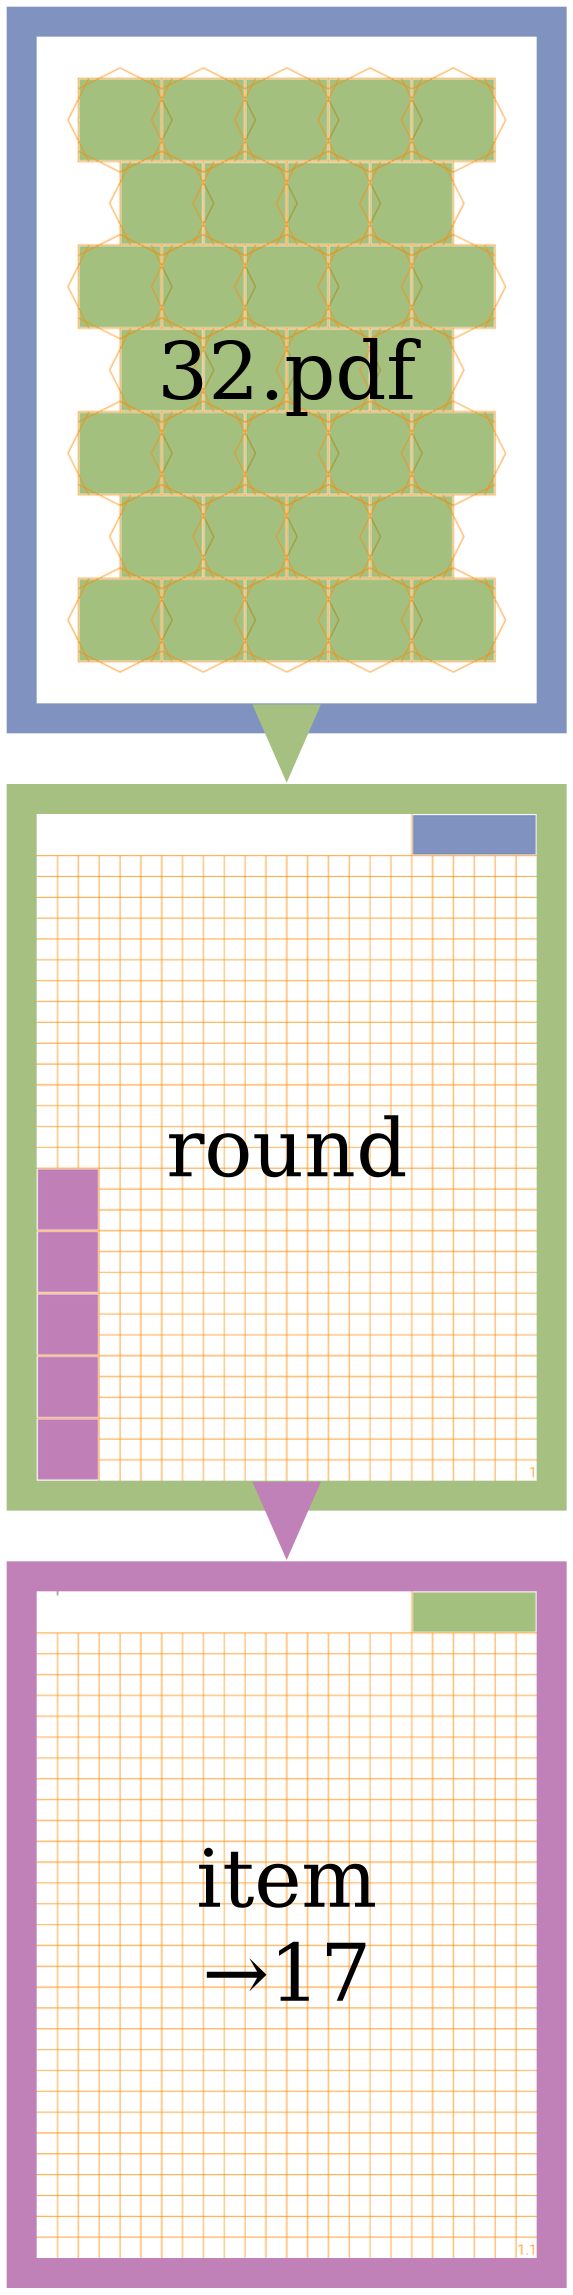
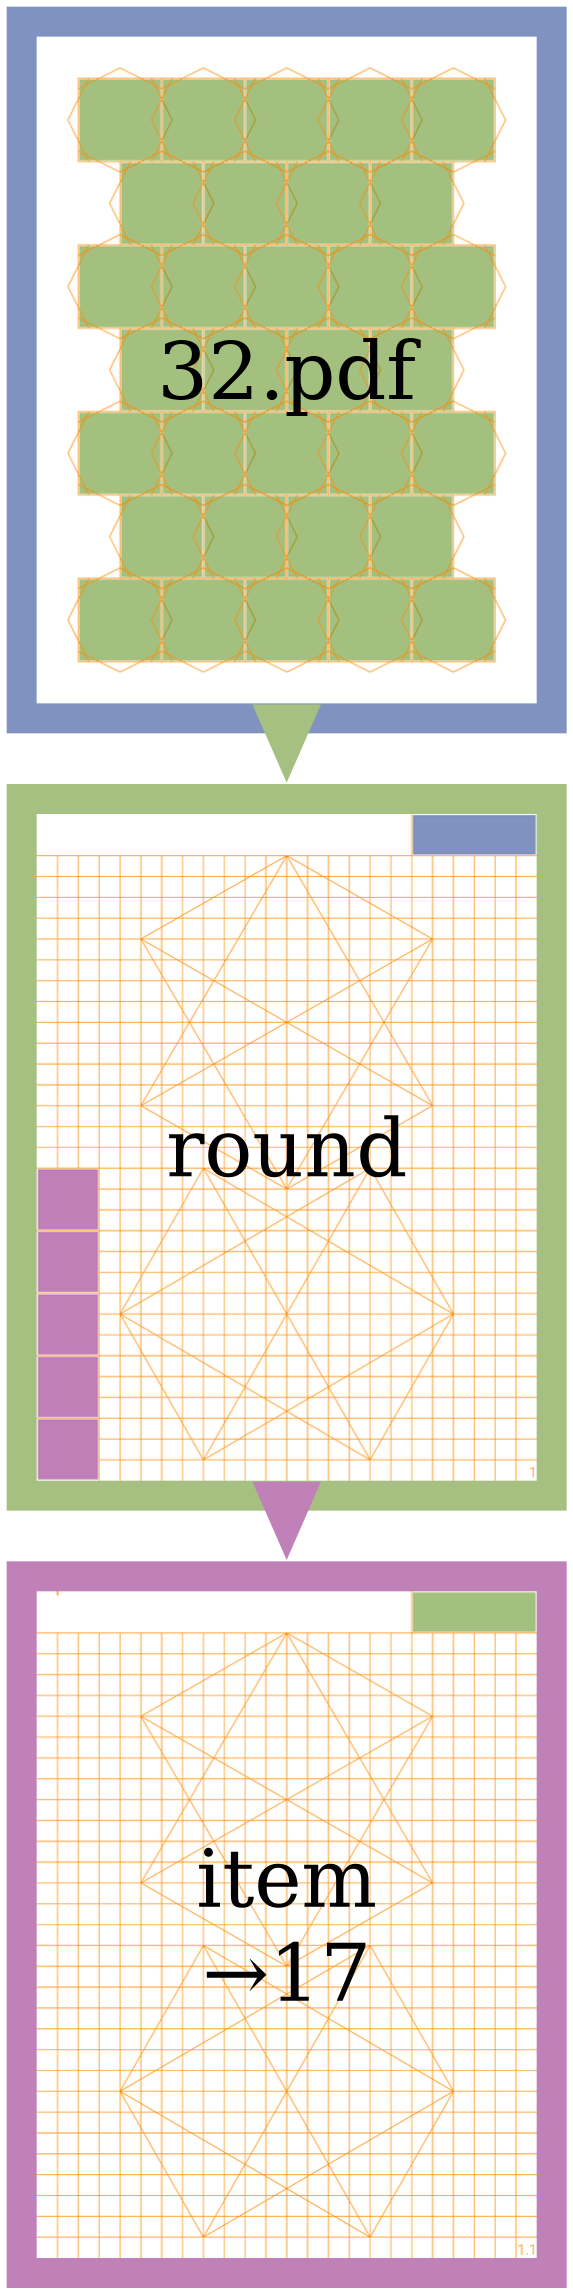
Hex.pdf

diff --git a/Hex.rb b/Hex.rb
@@ -3,30 +3,27 @@ BEGIN {
 }
 
 END {
-  Rounds32.make
+  Hex.make
 } if __FILE__ == $0
 
 $mark_color = 'ff8800'
 
-module Rounds32
+module Hex
   module_function
 
   FORMAT = 16  # 12x16 standard grid fitting RM screen fully
   DESCRIPTION = <<~END
-    32.pdf
+    Hex.pdf
 
-    Random abstract PDF.
-    The main page may be the most interesting by itself.
-    Also there are big hexagons on all pages except main as part of the grid for potential interesting uses.
-    Otherwise it simple set of 32 5-item lists with 17 consecutive pages per item.
+    PDF to play around with hexagon-like background.
+    
+    The main page has a grid of 32 links to item pages.
+    Every item page has 17 consecutive pages and wide link back in the top-right corner.
 
-    - main page has a hexagon grid of roundish links,
-      so it can have experimental uses like mind mapping
-    - inside such links there is a single page of content space and a list of five items with links per item to go down further
-    - every such item has 17 consecutive pages with pagination marker on top
-    - turning pages outside those paginated items just moves between those list pages
-    - link for going back/up is in the top right corner
-    - must do with such PDFs is to mark or name links before entering them and then to write the same name into the page header after entered the link
+    The interesting part is backgounds used on main or item pages.
+    I'm thinking about mind-map-like uses.
+
+    Main disclaimer when using these abstract PDFs must do is to mark or name links on the main page before entering them and possibly also writing the same name into the item page header after entered the link.
 
     This info is also on the last page of the PDF.
 
@@ -40,7 +37,7 @@ module Rounds32
 end
 
 
-def Rounds32.make!
+def Hex.make!
   # rounds pages are defined by "door"/link area on the main/root page
   rounds = []
 
@@ -57,15 +54,6 @@ def Rounds32.make!
     col_count = i.odd?? 4 : 5
     col_count.times { |j|
       rounds.push << { x: x + j*w, y: y, w: w, h: h }
-
-      # setting data for internal list items here too
-      size = 1.5
-      rounds.last[:items] = 5.times.reverse_each.map.with_index { |i, item_index|
-        value = { x: 0, y: i*size, w: size, h: size }
-        value[:round_index] = index
-        value[:item_index] = item_index
-        value
-      }
       rounds.last[:index] = index
       index += 1
     }
@@ -75,46 +63,19 @@ def Rounds32.make!
 
   # root page generation
   BS.page :root do
-    page.tag = '32.pdf'
+    page.tag = 'Hex.pdf'
   end
   root = BS.pages.first
-
-  # grid for ui
-  grid = SmartGrid.new([0, 12], [0, 16])
-  grid.add_verticals 0.5
-  grid.add_horizontals 0.5
-
-  # bordering lines:
-  grid.drop_lines [0, nil]
-  grid.drop_lines [12, nil]
-  grid.drop_lines [nil, 0]
-  grid.drop_lines [nil, 16]
-
-  # header areas:
-  grid.cut_hole [
-    [0, 12 - Rounds32::LINK_BACK_AREA.w], [15, 16]
-  ]
-  grid.cut_hole [
-    [12 - Rounds32::LINK_BACK_AREA.w, 12], [15, 16]
-  ]
-  used_grid = grid
 
   # rounds pages generation
   parent = root
   rounds.each { |d|
-    child = parent.child_page :round, d do
-      grid = used_grid.dup
-      d[:items].each { |x|
-        at = There.at x
-        grid.cut_hole [
-          [at.x, at.x2], [at.y, at.y2]
-        ]
-      }
-
-      up.link_back
-      up.draw_grid grid
-      up.draw_footer d[:index] + 1
-      up.draw_hexagons
+    child = parent.child_page :item, d do
+      BS::Pagination.generate page, count: 17, step: 0.5 do
+        up.link_back
+        up.draw_footer "#{d[:index] + 1}"
+        up.draw_small_hexagons
+      end
     end
 
     parent.visit do
@@ -122,34 +83,15 @@ def Rounds32.make!
       up.draw_list_door There.at d
     end
   }
-
-  # items of rounds generation
-  BS.xs(:round).each do |parent|
-    parent[:items].each { |d|
-      child = parent.child_page :item, d do
-        BS::Pagination.generate page, count: 17, step: 0.5 do
-          # BS::Pagination.generate page, count: 9, step: 1 do
-          up.link_back
-          up.draw_grid used_grid
-          up.draw_footer "#{d[:round_index] + 1}.#{d[:item_index] + 1}"
-          up.draw_hexagons
-        end
-      end
-
-      parent.visit do
-        link d, child
-      end
-    }
-  end
 end
 
 
-module Rounds32
+module Hex
   module_function
 
   # boilerplate
 
-  def make name: '32'
+  def make name: 'Hex'
     format = FORMAT
 
     path = File.join __dir__, 'output'
@@ -167,13 +109,7 @@ module Rounds32
   # rendering helpers
 
   def ui_style &block
-    # $bs.line_width 0.5 do
-    #   # $bs.color '008080', &block
-    #   $bs.color 8, &block
-    # end
     $bs.line_width 0.5 do
-      # $bs.color '008080', &block
-      # $bs.color '00ffff', &block
       $bs.color 'ff8800', &block
     end
   end
@@ -252,9 +188,26 @@ module Rounds32
     end
   end
 
-  def draw_hexagons
-    [Hexagon.new.transition([6, 11]), Hexagon.new.rotate.transition([6, 4])].each { |hex|
+  def draw_small_hexagons
+    [
+      Hexagon.new.rotate.transition([4, 5]),
+      Hexagon.new.transition([12, 5]),
+      Hexagon.new.rotate.transition([20, 5]),
+
+      Hexagon.new.transition([4, 13]),
+      Hexagon.new.rotate.transition([12, 13]),
+      Hexagon.new.transition([20, 13]),
+
+      Hexagon.new.rotate.transition([4, 21]),
+      Hexagon.new.transition([12, 21]),
+      Hexagon.new.rotate.transition([20, 21]),
+
+      Hexagon.new.transition([4, 29]),
+      Hexagon.new.rotate.transition([12, 29]),
+      Hexagon.new.transition([20, 29]),
+    ].each { |hex|
       hex.diagonals.each { |xs|
+        xs = xs.map { |x, y| [x / 2.0, (y - 1) / 2.0] }
         xs = xs.map { |x| $bs.grid.at x }
         $bs.pdf.move_to xs[0]
         $bs.pdf.line_to xs[1]

diff --git a/gen/gen_Hex.rb b/gen/gen_Hex.rb
@@ -1,0 +1,10 @@
+require_relative '../Hex.rb'
+
+$colored = true
+Hex.make name: 'COLOR_Hex'
+$colored = false
+
+Hex.make name: 'Hex'
+
+system 'rm output/info*.png'
+system 'rm output/COLOR*.pdf'

diff --git a/README.md b/README.md
@@ -6,6 +6,7 @@ PDFs for RM with experimental features.
 
 # Where
 
+- [Hex.pdf](https://github.com/sowcow/blank_slate_pdf/releases/latest/download/Hex.pdf)
 - [Rubiks.pdf](https://github.com/sowcow/blank_slate_pdf/releases/latest/download/Rubiks.pdf)
 - [32.pdf](https://github.com/sowcow/blank_slate_pdf/releases/latest/download/32.pdf)
 - [Q4 2024.pdf monday weeks](https://github.com/sowcow/blank_slate_pdf/releases/latest/download/2024_Q4_MON.pdf)
@@ -15,13 +16,25 @@ PDFs for RM with experimental features.
 Also, PDFs I don't use get removed from the list but stay in older releases downloads.
 
 
+# Hex.pdf
+
+![Structure overview](output/COLOR_Hex.png?raw=true)
+
+Experimental hexagons background PDF, full description is on the last page of it or in the corresponding `.rb` file here around.
+
+# Rubiks.pdf
+
+![Structure overview](output/COLOR_Rubiks.png?raw=true)
+
+Experimental colored PDF, full description is on the last page of it or in the corresponding `.rb` file here around.
+
 # 32.pdf
 
 ![Structure overview](output/COLOR_32.png?raw=true)
 
 Random abstract PDF.
 The main page may be the most interesting by itself.
-Also there are big hexagons on all children pages.
+Also there are big hexagons on all pages except main as part of the grid for potential interesting uses.
 Otherwise it simple set of 32 5-item lists with 17 consecutive pages per item.
 
 - main page has a hexagon grid of roundish links,
